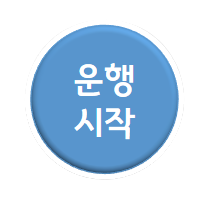
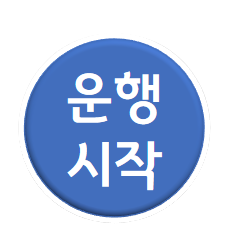
finished

diff --git a/Sweeper/src/main/java/com/sweeper/car/controller/MapController.java b/Sweeper/src/main/java/com/sweeper/car/controller/MapController.java
@@ -5,7 +5,6 @@ import java.util.Date;
 import java.util.List;
 import java.util.Map;
 
-import org.json.JSONArray;
 import org.json.JSONObject;
 import org.springframework.beans.factory.annotation.Autowired;
 import org.springframework.stereotype.Controller;
@@ -93,5 +92,17 @@ public class MapController {
 		System.err.println(json.toString());
 		return json.toString();
     }
+	
+	@ResponseBody
+	@PostMapping(value = "/markerInfo", produces = "application/json;charset=UTF-8")
+	public String markerInfo(@RequestParam Map<String, Object> map) {
+	    JSONObject json = new JSONObject();
+	    Map<String, Object> startinfo = mapService.asc(map);
+	    Map<String, Object> endinfo = mapService.desc(map);
+	    json.put("markerinfo", startinfo); // startinfo를 markerinfo 키로 저장
+	    json.put("endinfo", endinfo); // endinfo를 endinfo 키로 저장
+	    System.err.println(json.toString());
+	    return json.toString();
+	}
   
 }

diff --git a/Sweeper/src/main/java/com/sweeper/car/dao/MapDAO.java b/Sweeper/src/main/java/com/sweeper/car/dao/MapDAO.java
@@ -22,8 +22,12 @@ public interface MapDAO {
 
 	List<Map<String, Object>> getPointsByDateAndCar(@Param("date") String date, @Param("carNumber") String carNumber);
 	
+	
 	List<Map<String, Object>> carlist();
-
 	Map<String, Object> searchcar(Map<String, Object> map);
+	
+	
+	Map<String, Object> asc(Map<String, Object> map);
+	Map<String, Object> desc(Map<String, Object> map);
 }
 

diff --git a/Sweeper/src/main/java/com/sweeper/car/service/MapService.java b/Sweeper/src/main/java/com/sweeper/car/service/MapService.java
@@ -39,4 +39,13 @@ public class MapService {
 	public Map<String, Object> searchcar(Map<String, Object> map) {
 		return mapDAO.searchcar(map);
 	}
+	
+	
+	public Map<String, Object> asc(Map<String, Object> map) {
+		return mapDAO.asc(map);
+	}
+	
+	public Map<String, Object> desc(Map<String, Object> map) {
+		return mapDAO.desc(map);
+	}
 }
